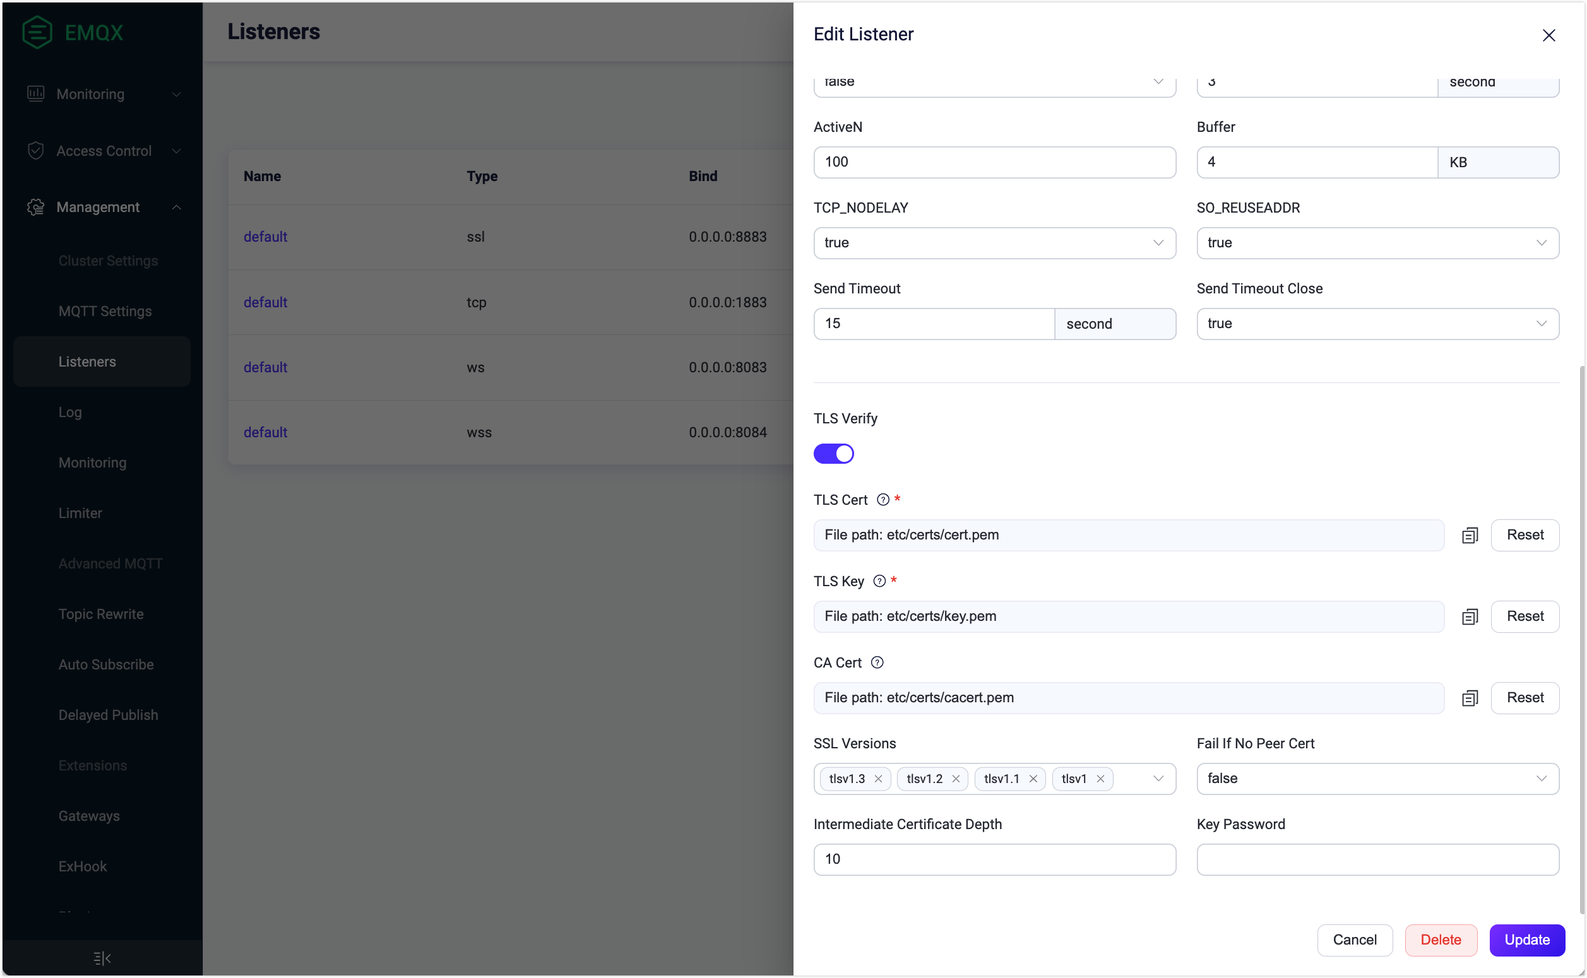
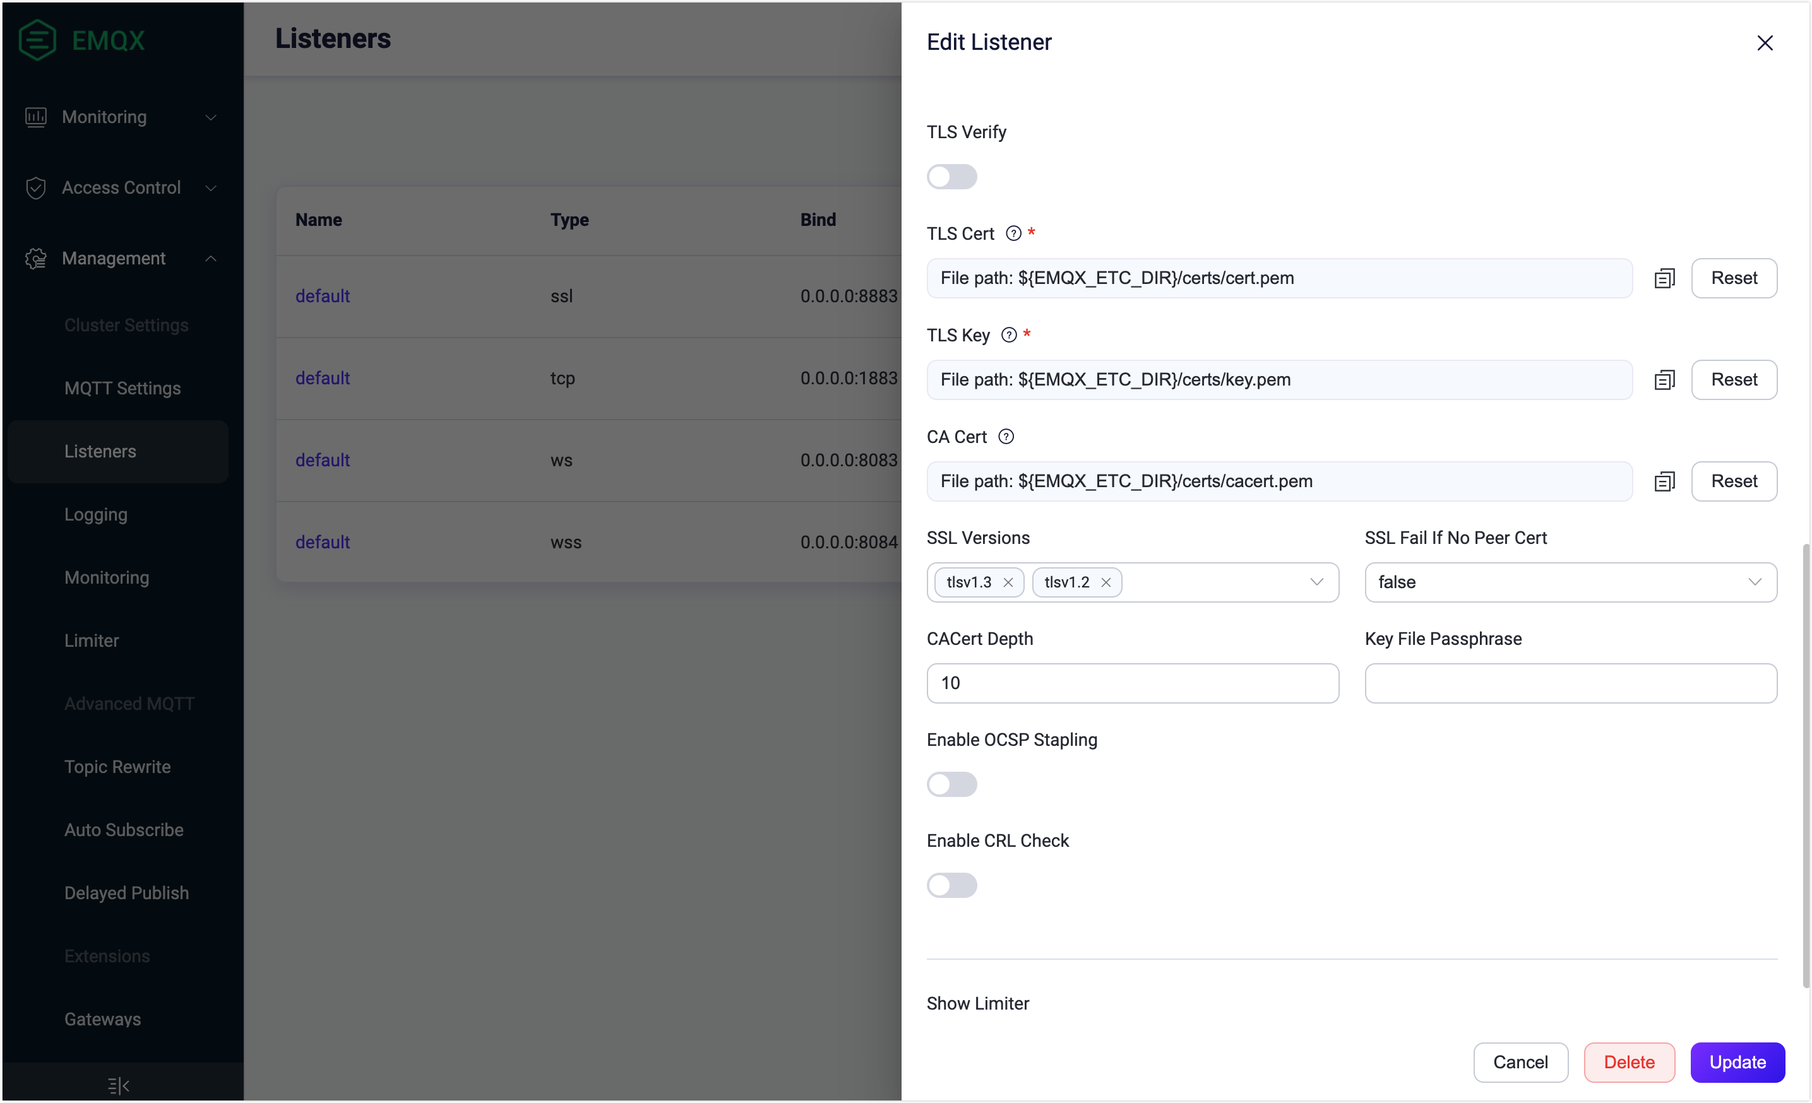
Updated ZH files according to EN contents

diff --git a/zh_CN/network/emqx-mqtt-tls.md b/zh_CN/network/emqx-mqtt-tls.md
@@ -1,16 +1,6 @@
 # 开启 SSL/TLS 连接
 
-SSL/TLS 加密功能会在传输层对网络连接进行加密，它能在提升通信数据安全性的同时，保证数据的完整性。EMQX 提供了非常完整的 SSL/TLS 能力支持，包括支持单/双向认证、X.509 证书认证，您可以为包括 MQTT 在内的所有连接启用 SSL/TLS 加密连接，保证接入与消息传输安全。
-
-本章节将向您详细介绍 SSL/TLS 加密连接以及如何在 EMQX 中开启 SSL/TLS 连接。
-
-## 安全优势
-
-1. 强认证：开启 TLS 连接后，通讯双方将互相检查对方的身份，比如通过检查对方持有的 X.509 数字证书；这类数字证书通常是由受信机构 CA（Certificate Authority）颁发，不可伪造。
-
-2. 机密性：开启 TLS 连接后，每次会话都会根据双方协商得到的会话密钥进行加密。任何第三方都无法知晓通讯内容，因此即使一次会话的密钥泄露，也不影响其他会话的安全性。
-
-3. 完整性：加密通讯中的数据被篡改的可能性极低。
+SSL/TLS 加密功能会在传输层对网络连接进行加密，它能在提升通信数据安全性的同时，保证数据的完整性。EMQX 提供了非常完整的 SSL/TLS 能力支持，包括支持单/双向认证、X.509 证书认证，您可以为包括 MQTT 在内的所有连接启用 SSL/TLS 加密连接，保证接入与消息传输安全。单向认证只保证通信被加密但无法验证客户端身份。而双向认证可以同时验证客户端身份，如果客户端无法提供证书，SSL/TLS 连接将被拒绝。
 
 对于客户端的 SSL/TLS 连接，您可以根据使用场景选择以下两种使用方式之一：
 
@@ -19,89 +9,89 @@ SSL/TLS 加密功能会在传输层对网络连接进行加密，它能在提升
 | 直接在客户端与 EMQX 之间开启 SSL/TLS 连接 | 简单易用，不需要额外的组件。               | 会增加 EMQX 的资源消耗，如果连接数量巨大，可能会导致较高的 CPU 和内存消耗。                                         |
 | 通过代理或负载均衡终结 TLS 连接           | 不影响 EMQX 性能，同时提供了负载均衡能力。 | 只有少数云厂商的负载均衡器支持 TCP SSL/TLS 终结，此外，用户还需自己部署 [HAProxy](http://www.haproxy.org/) 等软件。 |
 
-本章节将重点介绍如何直接在客户端与 EMQX 之间开启 SSL/TLS 连接，有关如何通过代理或负载均衡终结 TLS 连接，请参考 [集群负载均衡](../deploy/cluster/lb.md)。
+本章节将向您详细介绍 SSL/TLS 加密连接以及如何在 EMQX 中通过 Dashboard 和 配置文件开启 SSL/TLS 连接。有关如何通过代理或负载均衡终结 TLS 连接，请参考[集群负载均衡](../deploy/cluster/lb.md)。
+
+## 安全优势
+
+启用 SSL/TLS 连接提供了以下安全优势：
+
+1. 强认证：开启 TLS 连接后，通讯双方将互相检查对方的身份，比如通过检查对方持有的 X.509 数字证书；这类数字证书通常是由受信机构 CA（Certificate Authority）颁发，不可伪造。
+2. 机密性：开启 TLS 连接后，每次会话都会根据双方协商得到的会话密钥进行加密。任何第三方都无法知晓通讯内容，因此即使一次会话的密钥泄露，也不影响其他会话的安全性。
+3. 完整性：加密通讯中的数据被篡改的可能性极低。
+
+## 前置准备
+
+开始之前，您需要具备 SSL/TLS 证书。EMQX 随安装包提供了一组仅用于测试的 SSL/TLS 证书（位于 `etc/certs` 目录），并在 `8883` 端口启用了 SSL/TLS 连接。当应用于生产环境时，应切换至由可靠 CA 签发的证书。有关如何申请相关证书，请参考[获取 SSL/TLS 证书](./tls-certificate.md)部分。
+
+## 通过 Dashboard 开启 SSL/TLS 连接
+
+在 `8883` 端口上启用的 SSL 监听器用来加密客户端与 EMQX 之前的数据传输。在 EMQX Dashboard 中，您可以通过修改 SSL 监听器的设置来开启 SSL/TLS 连接。
+
+1. 将您的私人SSL/TLS 证书文件保存到 EMQX 的 `etc/certs` 目录下。
+
+2. 转到 EMQX Dashboard，在左侧导航栏中点击**管理** -> **监听器**。
+
+3. 在**监听器**页面, 在类型为 SSL 的监听器的**名称**列中点击 **default**。
+
+   - **验证服务器证书**：默认为不启用。如果需要验证客户端身份进行双向认证，点击切换开关。
+   - **TLS Cert**, **TLS Key** 和 **CA Cert**：点击**重新设置**上传您的私人证书文件以替换当前的证书文件。
+   - **SSL 版本**:  支持所有 TLS/DTLS 版本。默认设置为 `tlsv1.3` 和 `tlsv1.2`。如果 PSK 验证中使用了 PSK 密码套件，确保在此处设置 `tlsv1.2` ， `tlsv1.1` 和 `tlsv1`。更多关于 PSK 验证的内容，参阅 [启用 PSK 验证](./psk-authentication.md)。
+   - **没有证书则 SSL 失败**：在**验证服务器证书**启用时使用。默认设置为 `false`。
+     - 如果设置为 `true`，如果客户端发送空证书，则客户端身份验证失败，SSL/TLS 连接将被拒绝。
+     - 如果设置为 `false`，只有当客户端发送无效证书时，客户端身份验证失败（空证书被认为是有效证书），SSL/TLS 连接将被拒绝。
+   - **CA 证书深度**：允许的证书文件路径最大深度； 默认值为 `10`。
+   - **密钥文件密码**：如果密钥文件由密码保护，则需要输入密码。
+   - **启用 OCSP Stapling**: 默认为不启用；如需获取 X509 数字证书的撤销状态，可以点击切换开关。具体可参阅 [OCSP Stapling](./ocsp.md)。
+   - **启用 CRL 检查**：默认为不启用；如需设置证书吊销列表（CRL）检查功能，可以点击切换开关。具体可参阅 [CRL 检查](./crl.md)。
+
+4. 完成编辑后，点击**更新**。
+
+   <img src="./assets/edit-listener.png" alt="edit-listener" style="zoom:40%;" />
 
 ## 通过配置文件开启 SSL/TLS 连接
 
-:::tip 前置准备：
-
-已具备 SSL/TLS 证书。
-
-EMQX 随安装包提供了一组仅用于测试的 SSL/TLS 证书（位于 `etc/certs` 目录），并在 `8883` 端口启用了 SSL/TLS 连接。当应用于生产环境时，应切换至由可靠 CA 签发的证书。有关如何申请相关证书，请参考 [获取 SSL/TLS 证书](./tls-certificate.md)部分。
-
-:::
-
 1. 将 SSL/TLS 证书文件移动到 EMQX `etc/cert` 目录。
+
 2. 打开配置文件 `emqx.conf` （根据您的安装方式，可能位于 `./etc` 或 `/etc/emqx/etc` 目录），修改 `listeners.ssl.default` 配置组，将证书替换为您的证书，并添加 `verify = verify_none`：
 
-```bash
-listeners.ssl.default {
-  bind = "0.0.0.0:8883"
-  max_connections = 512000
-  ssl_options {
-    # keyfile = "etc/certs/key.pem"
-    keyfile = "etc/certs/server.key"
-    # certfile = "etc/certs/cert.pem"
-    certfile = "etc/certs/server.crt"
-    # cacertfile = "etc/certs/cacert.pem"
-    cacertfile = "etc/certs/rootCA.crt"
+   ```bash
+   listeners.ssl.default {
+     bind = "0.0.0.0:8883"
+     max_connections = 512000
+     ssl_options {
+       # keyfile = "etc/certs/key.pem"
+       keyfile = "etc/certs/server.key"
+       # certfile = "etc/certs/cert.pem"
+       certfile = "etc/certs/server.crt"
+       # cacertfile = "etc/certs/cacert.pem"
+       cacertfile = "etc/certs/rootCA.crt"
+   
+       # 不开启对端验证
+       verify = verify_none
+     }
+   }
+   ```
 
-    # 不开启对端验证
-    verify = verify_none
-  }
-}
-```
+   至此您已经完成 EMQX 上的 SSL/TLS 单向认证配置，单向认证仅保证通信已经被加密，无法    验证客户端身份。
 
-至此您已经完成 EMQX 上的 SSL/TLS 单向认证配置，单向认证仅保证通信已经被加密，无法验证客户端身份。
-
-如需启用双向认证，请在 `listeners.ssl.default` 配置组中添加如下配置：
-
-```bash
-listeners.ssl.default {
-  ...
-  ssl_options {
-    ...
-    # 开启对端验证
-    verify = verify_peer
-    # 强制开启双向认证，如果客户端无法提供证书，则 SSL/TLS 连接将被拒绝
-    fail_if_no_peer_cert = true
-  }
-}
-```
+   如需启用双向认证，请在 `listeners.ssl.default` 配置组中添加如下配置：
+   
+   ```bash
+   listeners.ssl.default {
+     ...
+     ssl_options {
+       ...
+       # 开启对端验证
+       verify = verify_peer
+       # 强制开启双向认证，如果客户端无法提供证书，则 SSL/TLS 连接将被拒绝
+       fail_if_no_peer_cert = true
+     }
+   }
+   ```
 
 3. 重启 EMQX，应用以上配置。
 
-## 启用 TLS 加密访问外部资源
 
-除了允许接收启用了双向 SSL 认证的MQTT 客户端外，EMQX 还提供了通过 SSL 加密访问外部资源的功能。比如，在使用 HTTP 服务进行密码认证时，通过 HTTPS 访问 web 服务器。下面的示例将介绍如何在 Dashboard 和配置文件中开启 TLS 加密。
 
-在 Dashboard 的左侧导航栏点击**访问控制**->**认证**，在**认证**页面，创建 **Password-Based** 认证。
 
-<img src="./assets/TLS-external-resource.png" alt="TLS-external-resource" style="zoom:50%;" />
-
-如上所示，连接到外部资源时，您可以启用 TLS 并配置其 SSL 证书。
-
-- **SNI** 意为服务器名称指示，指示服务器域名和证书是否验证为相同；空值表示没有验证。
-- 当服务器需要验证客户端证书时，则必须填写 **TLS 证书** 和 **TLS 密钥**。
-- 当启用 **TLS 验证** 时，必须填写 **CA 证书** 字段以验证服务器证书的合法性。
-
-除了在 Dashboard 中开启 SSL 加密连接外部资源，您还可以通过 `emqx.conf` 配置，例如在 `authentication` 配置组中添加配置：
-
-```
-authentication {
-  url = "https://127.0.0.1:8080"
-  backend = "http"
-
-  ...
-
-  ssl {
-    enable = true
-    cacertfile = "etc/certs/cacert.pem"
-    certfile = "etc/certs/cert.pem"
-    keyfile = "etc/certs/key.pem"
-    ## `verify_peer` means turn on verification for server certificate
-    verify = verify_peer
-  }
-}
-```
 

diff --git a/zh_CN/network/overview.md b/zh_CN/network/overview.md
@@ -1,24 +1,65 @@
 # 网络与 TLS
 
-SSL 和 TLS 协议常被用于网络通信，以确保数据传输保持机密性，并且无法被攻击者截获或修改。SSL/TLS 加密功能在传输层加密网络连接，并涉及使用数字证书来验证涉及各方的身份并建立安全通信通道。
+安全对于物联网场景下的端对端加密通信至关重要。EMQX 在以下几种应用中使用 SSL 和 TLS 协议来保障网络通信安全：
+
+- MQTT 客户端与 EMQX 建立连接
+- 连接到外部资源，比如外部数据库
+- 集群中不同节点之间的通信
 
 EMQX 提供了全面的 SSL/TLS 功能支持，包括单向/双向身份验证和 X.509 证书身份验证。当接受 MQTT 客户端或连接到外部资源（如数据库）时，EMQX 可以通过 SSL/TLS 建立安全连接。
 
-本章将介绍以下主题：
+::: tip
 
-- [开启 SSL/TLS 连接](./emqx-mqtt-tls.md)
+SSL 和 TLS 常被用于网络通信，以确保数据传输保持机密性，并且无法被攻击者截获或修改。SSL/TLS 加密功能在传输层加密网络连接，并涉及使用数字证书来验证涉及各方的身份并建立安全通信通道。
 
-  本节介绍如何在 EMQX 中开启 SSL/TLS 连接。
+:::
 
-- [客户端 TLS](./mqtt-client-tls.md)
+本章主要介绍了 MQTT 客户端在建立与 EMQX 的连接时以及在连接到外部资源时启用 SSL/TLS，在[启用 PSK 验证](./psk-authentication.md)中还介绍了如何在 EMQX 中开启 TLS PSK 支持。此外，在[获取 SSL/TLS 证书](./tls-certificate.md)中介绍了创建自签名证书的方法。
 
-   本节列举了 MQTT 客户端库接入示例和工程项目代码。
+## 启用 TLS 进行客户端加密连接
 
-- [国密 SSL](./gmssl.md)
+[开启 SSL/TLS 连接](./emqx-mqtt-tls.md)页面详细介绍了如何在 MQTT 客户端与 EMQX 的连接中启用 SSL/TLS。在 SSL/TLS 启用的情况下，您可以同时开启[CRL 检查](./crl.md)和[OCSP stapling](./ocsp.md)来验证证书的状态。[客户端 TLS](./mqtt-client-tls.md)页面列举了 MQTT 客户端库接入示例和工程项目代码，在这些示例中包括了 TLS 使用指南。
 
-  国密即国家密码局认定的国产密码算法。我国在金融银行、教育、交通、通信、国防工业等各类重要领域的信息系统均已开始进行国产密码算法的升级改造。本节将介绍 EMQX 国密算法整体解决方案。
+### 国密 SSL
 
+[国密 SSL](./gmssl.md) 即国家密码局认定的国产密码算法。我国在金融银行、教育、交通、通信、国防工业等各类重要领域的信息系统均已开始进行国产密码算法的升级改造。本节将介绍 EMQX 国密算法整体解决方案。
 
+## 启用 TLS 加密访问外部资源
 
+EMQX also offers you the option of enabling TLS when there is a need to access external resources. For example, when using password-based authentication with access to a web server via HTTPS or connecting to a database for data integration. You can switch on the **Enable TLS** when configuring these features on the EMQX Dashboard.
 
+除了允许接收启用了双向 SSL 认证的 MQTT 客户端外，EMQX 还提供了通过 SSL 加密访问外部资源的功能。比如，在使用 HTTP 服务进行密码认证时，通过 HTTPS 访问 web 服务器。下面的示例将介绍如何在 Dashboard 和配置文件中开启 TLS 加密。
 
+在 Dashboard 的左侧导航栏点击**访问控制**->**认证**，在**认证**页面，创建 **Password-Based** 认证。
+
+<img src="./assets/TLS-external-resource.png" alt="TLS-external-resource" style="zoom:50%;" />
+
+如上所示，连接到外部资源时，您可以启用 TLS 并配置其 SSL 证书。
+
+- **SNI** 意为服务器名称指示，指示服务器域名和证书是否验证为相同；空值表示没有验证。
+- 当服务器需要验证客户端证书时，则必须填写 **TLS 证书** 和 **TLS 密钥**。
+- 当启用 **TLS 验证** 时，必须填写 **CA 证书** 字段以验证服务器证书的合法性。
+
+除了在 Dashboard 中开启 SSL 加密连接外部资源，您还可以通过 `emqx.conf` 配置，例如在 `authentication` 配置组中添加配置：
+
+```json
+authentication {
+  url = "https://127.0.0.1:8080"
+  backend = "http"
+
+  ...
+
+  ssl {
+    enable = true
+    cacertfile = "etc/certs/cacert.pem"
+    certfile = "etc/certs/cert.pem"
+    keyfile = "etc/certs/key.pem"
+    ## `verify_peer` means turn on verification for server certificate
+    verify = verify_peer
+  }
+}
+```
+
+## 启用 TLS 加密节点通信
+
+关于如何在集群节点通信中启用 TLS的具体介绍，您可以参阅[集群安全](../deploy/cluster/security.md)。

diff --git a/en_US/network/emqx-mqtt-tls.md b/en_US/network/emqx-mqtt-tls.md
@@ -15,7 +15,7 @@ This page introduces how to directly establish an SSL/TLS connection between the
 
 ## Safety Benefits
 
-Enabling SSL/TLS connection provides the following safety benefits.
+Enabling SSL/TLS connection provides the following safety benefits:
 
 1. **Strong Authentication**: Both communicating parties will verify each other's identities by checking the X.509 digital certificate held by the other party. These types of digital certificates are usually issued by trusted Certificate Authorities (CAs) and cannot be forged.
 2. **Confidentiality**: Each session will be encrypted using the session key negotiated by both parties. No third party can know the communication content, so even if the session key is compromised, it does not affect the security of other sessions.
@@ -35,18 +35,20 @@ The SSL listener enabled on port `8883` is used to encrypt the transmission data
 
 3. On the **Listeners** page, click **default** from the **Name** column of the SSL listener. 
 
-   - **TLS Verify**: Disabled by default. If peer verification is required to verify the client's identity, click the toggle switch to enable the option. 
+   - **TLS Verify**: Disabled by default; If peer verification is required to verify the client's identity, click the toggle switch to enable the option. 
    - **TLS Cert**, **TLS Key** and **CA Cert**: Replace the current certificate files with your private certificate files by clicking the **Reset** button.
-   - **SSL Versions**: All TLS/DTLS versions are supported by default. If PSK cipher suits are used for PSK authentication, make sure to configure `tlsv1.2` , `tlsv1.1` and `tlsv1` here. For more information on PSK authentication, see [Enable PSK Authentication](./psk-authentication.md).
+   - **SSL Versions**: All TLS/DTLS versions are supported. The default values are `tlsv1.3` and `tlsv1.2`. If PSK cipher suits are used for PSK authentication, make sure to configure `tlsv1.2` , `tlsv1.1` and `tlsv1` here. For more information on PSK authentication, see [Enable PSK Authentication](./psk-authentication.md).
    - **Fail If No Peer Cert**: Used together with **TLS Verify** is enabled. Set to `false` by default.
      - If set to `true`, verification of the client's identity fails if the client sends an empty certificate. The SSL/TLS connection will be rejected.
      - If set to `false`, verification of the client's identity fails only if the client sends an invalid certificate (An empty certificate is considered to be valid). The SSL/TLS connection will be rejected.
    - **Intermediate Certificate Depth**: The allowed maximum depth of certification path; the default value is `10`.
    - **Key Password**: Type the password if the private key file is password-protected.
-   
-   <img src="./assets/edit-listener.png" alt="edit-listener" style="zoom:40%;" />
+   - **Enable OCSP Stapling**: Disabled by default; If you need to obtain the revocation status of SSL/TLS certificates, you can enable it by clicking the toogle switch. For more information, see [OCSP Stapling](./ocsp.md).
+   - **Enable CRL Check**: Disabled by default; If you need to verify whether connecting client certificates are not revoked, you can enable it by clicking the toogle switch. For more information, see [CRL Check](./crl.md).
 
 4. After you complete the editing, click the **Update** button.
+
+   <img src="./assets/edit-listener.png" alt="edit-listener" style="zoom:40%;" />
 
 ## Enable SSL/TLS Connection via Configuration File
 

diff --git a/en_US/network/overview.md b/en_US/network/overview.md
@@ -10,7 +10,7 @@ EMQX provides comprehensive support for SSL/TLS capabilities, including support 
 
 ::: tip
 
-SSL and TSL protocols are often adopted in network communications to ensure that the data transmission remains confidential and cannot be intercepted or modified by an attacker. The SSL/TLS encryption function encrypts network connections at the transport layer and involves the use of digital certificates to authenticate the identity of the parties involved and to establish a secure communication channel.
+SSL and TLS protocols are often adopted in network communications to ensure that the data transmission remains confidential and cannot be intercepted or modified by an attacker. The SSL/TLS encryption function encrypts network connections at the transport layer and involves the use of digital certificates to authenticate the identity of the parties involved and to establish a secure communication channel.
 
 :::
 
@@ -24,15 +24,15 @@ The [Enable SSL/TLS Connection](./emqx-mqtt-tls.md) section in this chapter intr
 
 EMQX also offers you the option of enabling TLS when there is a need to access external resources. For example, when using password-based authentication with access to a web server via HTTPS or connecting to a database for data integration. You can switch on the **Enable TLS** when configuring these features on the EMQX Dashboard.
 
-- When **TLS Verify** is enabled, the **CA Cert** field must be filled in to verify the legitimacy of the server certificate.
 - **SNI** means Server Name Indication, indicating whether the server domain name and certificate are verified to be the same; A null value means no validation.
 - When the server needs to verify the client certificate, the **TLS Cert** and **TLS Key** must be filled in.
+- When **TLS Verify** is enabled, the **CA Cert** field must be filled in to verify the legitimacy of the server certificate.
 
 <img src="./assets/enable-TLS-dashboard.png" alt="enable-TLS-dashboard" style="zoom:50%;" />
 
 In addition, you can add `ssl` options when you configure the features in the configuration file. For example, you can configure the `authentication` group in the `emqx.conf` by adding the following statement:
 
-```
+```bash
 authentication {
   url = "https://127.0.0.1:8080"
   backend = "http"

diff --git a/zh_CN/network/ocsp.md b/zh_CN/network/ocsp.md
@@ -26,7 +26,7 @@ EMQX 支持通过 Dashboard 和配置文件启用 SSL 监听器 OCSP Stapling。
 
 ## 通过 Dashboard 配置
 
-登陆 EMQX Dashboard，点击左侧导航目录的**管理**->**监听器**，访问**监听器**页面。在本章我们将为默认的 SSL 监听器启用 OCSP Stapling，点击监听器名称进入**编辑监听器**页面。拖动到页面底部，找到 **启用 OCSP Stapling**的设置开关。
+登陆 EMQX Dashboard，点击左侧导航目录的**管理**->**监听器**，访问**监听器**页面。在本章我们将为默认的 SSL 监听器启用 OCSP Stapling，点击监听器名称进入**编辑监听器**页面。拖动到页面底部，找到**启用 OCSP Stapling**的设置开关。
 
 <img src="./assets/OCSP.png" alt="OCSP" style="zoom:50%;" />
 

diff --git a/zh_CN/network/psk-authentication.md b/zh_CN/network/psk-authentication.md
@@ -1,4 +1,4 @@
-## 启用 PSK 验证 
+# 启用 PSK 验证 
 
 PSK（Pre-Shared Key）认证是一种基于预先共享的密钥进行身份验证的认证方式。使用PSK认证，客户端和 EMQX 在建立安全连接之前必须预先共享相同的密钥。在客户端和 EMQX 之间建立 TLS 连接时以及在后续的通信中预共享密钥会对数据进行加密和解密。启用 PSK 认证后，客户端和 EMQX 可以相互验证，并在无需证书或证书颁发机构的情况下建立安全连接。
 
